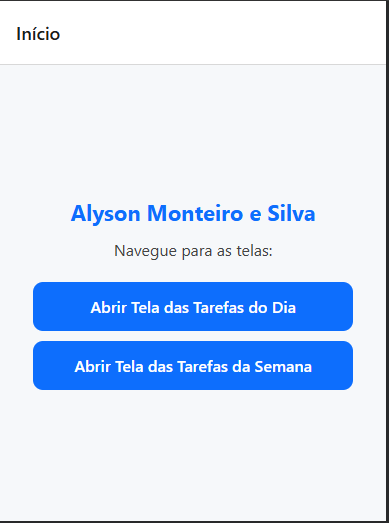
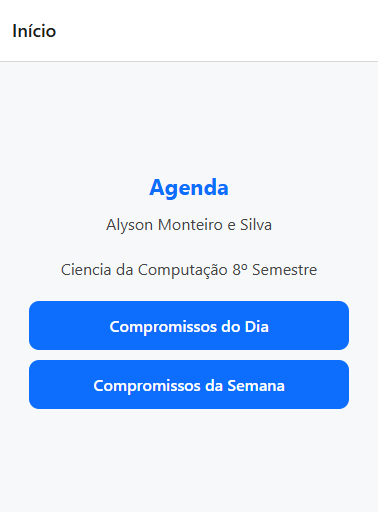
Prova2

Changed region(s): [[0.0582, 0.3438, 0.9312, 0.8125], [0.0, 0.0, 1.0, 1.0], [0.0291, 0.0312, 0.1746, 0.0938]]

diff --git a/Prova2/screens/WeekList.js b/Prova2/screens/WeekList.js
@@ -1,58 +1,72 @@
-import React, { useCallback } from 'react';
-import { FlatList, Text, View, StyleSheet } from 'react-native';
-
-const diasSemana = ['Segunda', 'Terça', 'Quarta', 'Quinta', 'Sexta', 'Sábado', 'Domingo'];
-
-const compromissosSemana = Array.from({ length: 200 }).map((_, i) => ({
-  id: String(i),
-  dia: diasSemana[i % 7],
-  titulo: `Atividade ${i + 1}`,
-  hora: `${(7 + (i % 10)).toString().padStart(2, '0')}:${(i % 2 === 0 ? '15' : '45')}`,
-  local: `Local ${Math.floor(Math.random() * 10) + 1}`,
-}));
+import React from 'react';
+import { View, Text, StyleSheet, ScrollView } from 'react-native';
 
 export default function WeekList() {
-  const renderItem = useCallback(({ item }) => (
-    <View style={styles.card}>
-      <Text style={styles.dia}>{item.dia}</Text>
-      <Text style={styles.titulo}>{item.titulo}</Text>
-      <Text style={styles.info}>⏰ {item.hora} | 📍 {item.local}</Text>
-    </View>
-  ), []);
-
   return (
-    <FlatList
-      data={compromissosSemana}
-      keyExtractor={(item) => item.id}
-      renderItem={renderItem}
-      initialNumToRender={15}
-      windowSize={10}
-    />
+    <ScrollView style={styles.container}>
+      <Text style={styles.subtitle}>Alyson Monteiro e Silva</Text>
+      <Text style={styles.subtitle}>Ciencia da Computação 8º Semestre</Text>
+
+      {/* Segunda-feira */}
+      <View style={styles.dayBlock}>
+        <Text style={styles.day}>Segunda-feira (10/11)</Text>
+        <Text style={styles.item}>08h30: Dentista</Text>
+        <Text style={styles.item}>16h00: Pilates</Text>
+      </View>
+
+      {/* Terça-feira */}
+      <View style={styles.dayBlock}>
+        <Text style={styles.day}>Terça-feira (11/11)</Text>
+        <Text style={styles.item}>08h00: Médico</Text>
+        <Text style={styles.item}>10h30: Reunião de planejamento</Text>
+        <Text style={styles.item}>15h00: Saída viagem</Text>
+      </View>
+
+      {/* Quarta-feira */}
+      <View style={styles.dayBlock}>
+        <Text style={styles.day}>Quarta-feira (12/11)</Text>
+        <Text style={styles.item}>09h00: Congresso</Text>
+        <Text style={styles.item}>12h30: Almoço com executivos</Text>
+        <Text style={styles.item}>20h30: Jantar de confraternização</Text>
+      </View>
+    </ScrollView>
   );
 }
 
 const styles = StyleSheet.create({
-  card: {
-    backgroundColor: '#f8f9fa',
-    marginVertical: 6,
-    marginHorizontal: 10,
-    padding: 12,
-    borderRadius: 10,
-    shadowColor: '#000',
-    shadowOpacity: 0.1,
-    shadowRadius: 3,
+  container: {
+    flex: 1,
+    backgroundColor: '#fff',
+    paddingHorizontal: 20,
+    paddingTop: 20,
   },
-  dia: {
-    color: '#28a745',
+  title: {
+    fontSize: 20,
     fontWeight: 'bold',
+    textAlign: 'center',
+    marginBottom: 5,
   },
-  titulo: {
-    fontSize: 16,
+  subtitle: {
+    fontSize: 14,
+    textAlign: 'center',
+    color: '#555',
+  },
+  dayBlock: {
+    marginTop: 20,
+    borderBottomWidth: 1,
+    borderBottomColor: '#ddd',
+    paddingBottom: 10,
+  },
+  day: {
+    fontSize: 17,
     fontWeight: 'bold',
-    marginTop: 4,
+    color: '#222',
+    marginBottom: 5,
   },
-  info: {
-    color: 'gray',
-    marginTop: 2,
+  item: {
+    fontSize: 15,
+    color: '#333',
+    marginLeft: 10,
+    marginBottom: 3,
   },
 });

diff --git a/Prova2/screens/DayList.js b/Prova2/screens/DayList.js
@@ -1,55 +1,90 @@
 import React, { useCallback } from 'react';
 import { FlatList, Text, View, StyleSheet } from 'react-native';
 
-const compromissosDia = Array.from({ length: 50 }).map((_, i) => ({
-  id: String(i),
-  titulo: `Compromisso ${i + 1}`,
-  hora: `${(8 + (i % 10)).toString().padStart(2, '0')}:${(i % 2 === 0 ? '00' : '30')}`,
-  descricao: `Atividade número ${i + 1} do dia`,
-}));
+// Dados fixos dos compromissos
+const compromissosDia = [
+  { id: '1', hora: '08h00', descricao: 'Médico' },
+  { id: '2', hora: '10h30', descricao: 'Reunião de planejamento' },
+  { id: '3', hora: '15h00', descricao: 'Saída viagem' },
+];
+
+// Função para gerar a data de hoje no formato "11/11 (ter)"
+function obterDataFormatada() {
+  const hoje = new Date();
+  const dia = hoje.getDate().toString().padStart(2, '0');
+  const mes = (hoje.getMonth() + 1).toString().padStart(2, '0');
+  const diasSemana = ['dom', 'seg', 'ter', 'qua', 'qui', 'sex', 'sáb'];
+  const diaSemana = diasSemana[hoje.getDay()];
+  return `${dia}/${mes} (${diaSemana})`;
+}
 
 export default function DayList() {
   const renderItem = useCallback(({ item }) => (
     <View style={styles.card}>
       <Text style={styles.hora}>{item.hora}</Text>
-      <Text style={styles.titulo}>{item.titulo}</Text>
       <Text style={styles.descricao}>{item.descricao}</Text>
     </View>
   ), []);
 
   return (
-    <FlatList
-      data={compromissosDia}
-      keyExtractor={(item) => item.id}
-      renderItem={renderItem}
-      initialNumToRender={12}
-      windowSize={10}
-    />
+    <View style={styles.container}>
+      {/* Cabeçalho fixo */}
+      <Text style={styles.data}>{obterDataFormatada()}</Text>
+      <Text style={styles.subinfo}>Alyson Monteiro e Silva</Text>
+      <Text style={styles.subinfo}>Ciencia da Computação 8º Semestre</Text>
+
+      {/* Lista de compromissos */}
+      <FlatList
+        data={compromissosDia}
+        keyExtractor={(item) => item.id}
+        renderItem={renderItem}
+        initialNumToRender={10}
+        windowSize={5}
+        contentContainerStyle={styles.lista}
+      />
+    </View>
   );
 }
 
 const styles = StyleSheet.create({
-  card: {
-    backgroundColor: '#f8f9fa',
-    marginVertical: 6,
-    marginHorizontal: 10,
-    padding: 12,
-    borderRadius: 10,
-    shadowColor: '#000',
-    shadowOpacity: 0.1,
-    shadowRadius: 3,
-  },
-  hora: {
-    color: '#007bff',
-    fontWeight: 'bold',
+  container: {
+    flex: 1,
+    backgroundColor: '#fff',
+    paddingTop: 40,
+    paddingHorizontal: 20,
   },
   titulo: {
-    fontSize: 16,
+    fontSize: 20,
     fontWeight: 'bold',
-    marginTop: 4,
+    marginBottom: 15,
+  },
+  data: {
+    fontSize: 22,
+    fontWeight: 'bold',
+    textAlign: 'center',
+  },
+  subinfo: {
+    textAlign: 'center',
+    color: '#666',
+    fontSize: 14,
+  },
+  lista: {
+    marginTop: 25,
+  },
+  card: {
+    flexDirection: 'row',
+    alignItems: 'center',
+    marginVertical: 6,
+    paddingVertical: 4,
+    borderBottomWidth: 1,
+    borderBottomColor: '#ddd',
+  },
+  hora: {
+    width: 80,
+    fontWeight: 'bold',
+    fontSize: 16,
   },
   descricao: {
-    color: 'gray',
-    marginTop: 2,
+    fontSize: 16,
   },
 });

diff --git a/Prova2/screens/HomeScreen.js b/Prova2/screens/HomeScreen.js
@@ -4,15 +4,16 @@ import { View, Text, TouchableOpacity, StyleSheet } from 'react-native';
 export default function HomeScreen({ navigation }) {
   return (
     <View style={styles.container}>
-      <Text style={styles.title}>Alyson Monteiro e Silva</Text>
-      <Text style={styles.subtitle}>Navegue para as telas:</Text>
+      <Text style={styles.title}>Agenda</Text>
+      <Text style={styles.subtitle}>Alyson Monteiro e Silva</Text>
+      <Text style={styles.subtitle}>Ciencia da Computação 8º Semestre</Text>
 
-      <TouchableOpacity style={styles.button} onPress={() => navigation.navigate('Tarefas do Dia')}>
-        <Text style={styles.buttonText}>Abrir Tela das Tarefas do Dia</Text>
+      <TouchableOpacity style={styles.button} onPress={() => navigation.navigate('Compromissos do dia')}>
+        <Text style={styles.buttonText}>Compromissos do Dia</Text>
       </TouchableOpacity>
 
-      <TouchableOpacity style={styles.button} onPress={() => navigation.navigate('Tarefas da Semana')}>
-        <Text style={styles.buttonText}>Abrir Tela das Tarefas da Semana</Text>
+      <TouchableOpacity style={styles.button} onPress={() => navigation.navigate('Compromissos da semana')}>
+        <Text style={styles.buttonText}>Compromissos da Semana</Text>
       </TouchableOpacity>
 
     </View>

diff --git a/Prova2/App.js b/Prova2/App.js
@@ -11,8 +11,8 @@ export default function App() {
     <NavigationContainer>
       <Stack.Navigator>
         <Stack.Screen name="Início" component={HomeScreen} />
-        <Stack.Screen name="Tarefas do Dia" component={DayList} />
-        <Stack.Screen name="Tarefas da Semana" component={WeekList} />
+        <Stack.Screen name="Compromissos do dia" component={DayList} />
+        <Stack.Screen name="Compromissos da semana" component={WeekList} />
       </Stack.Navigator>
     </NavigationContainer>
   );
